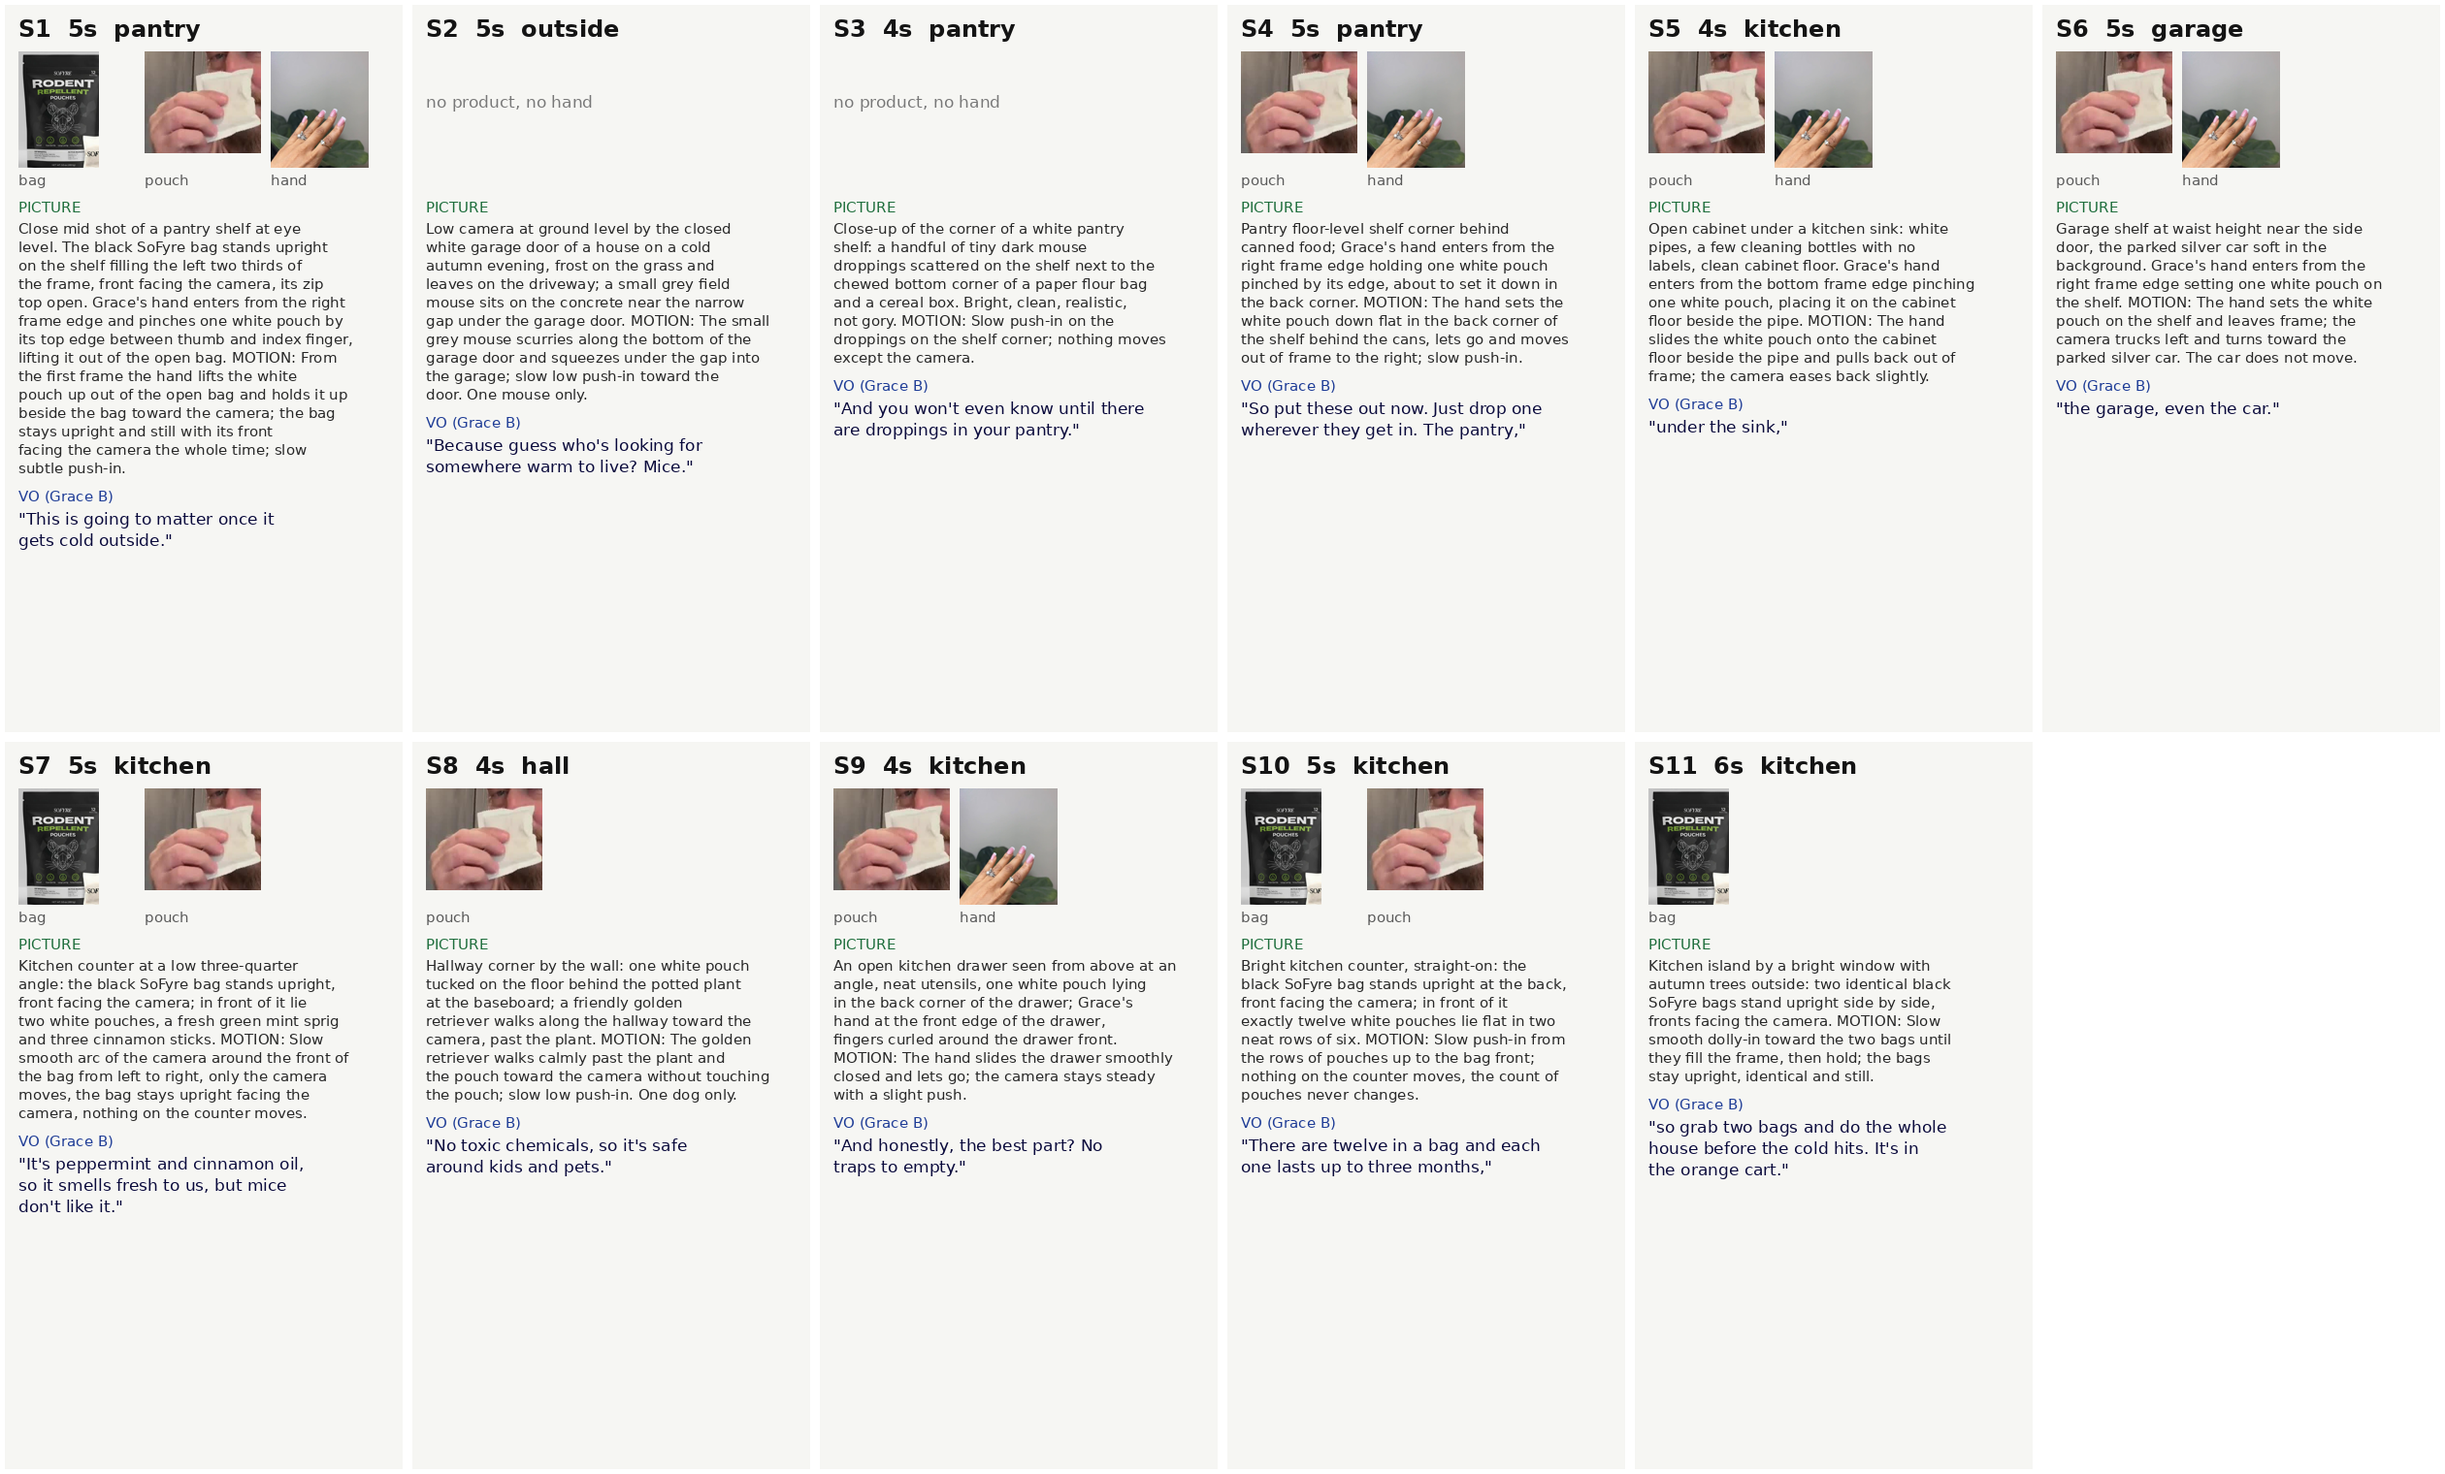
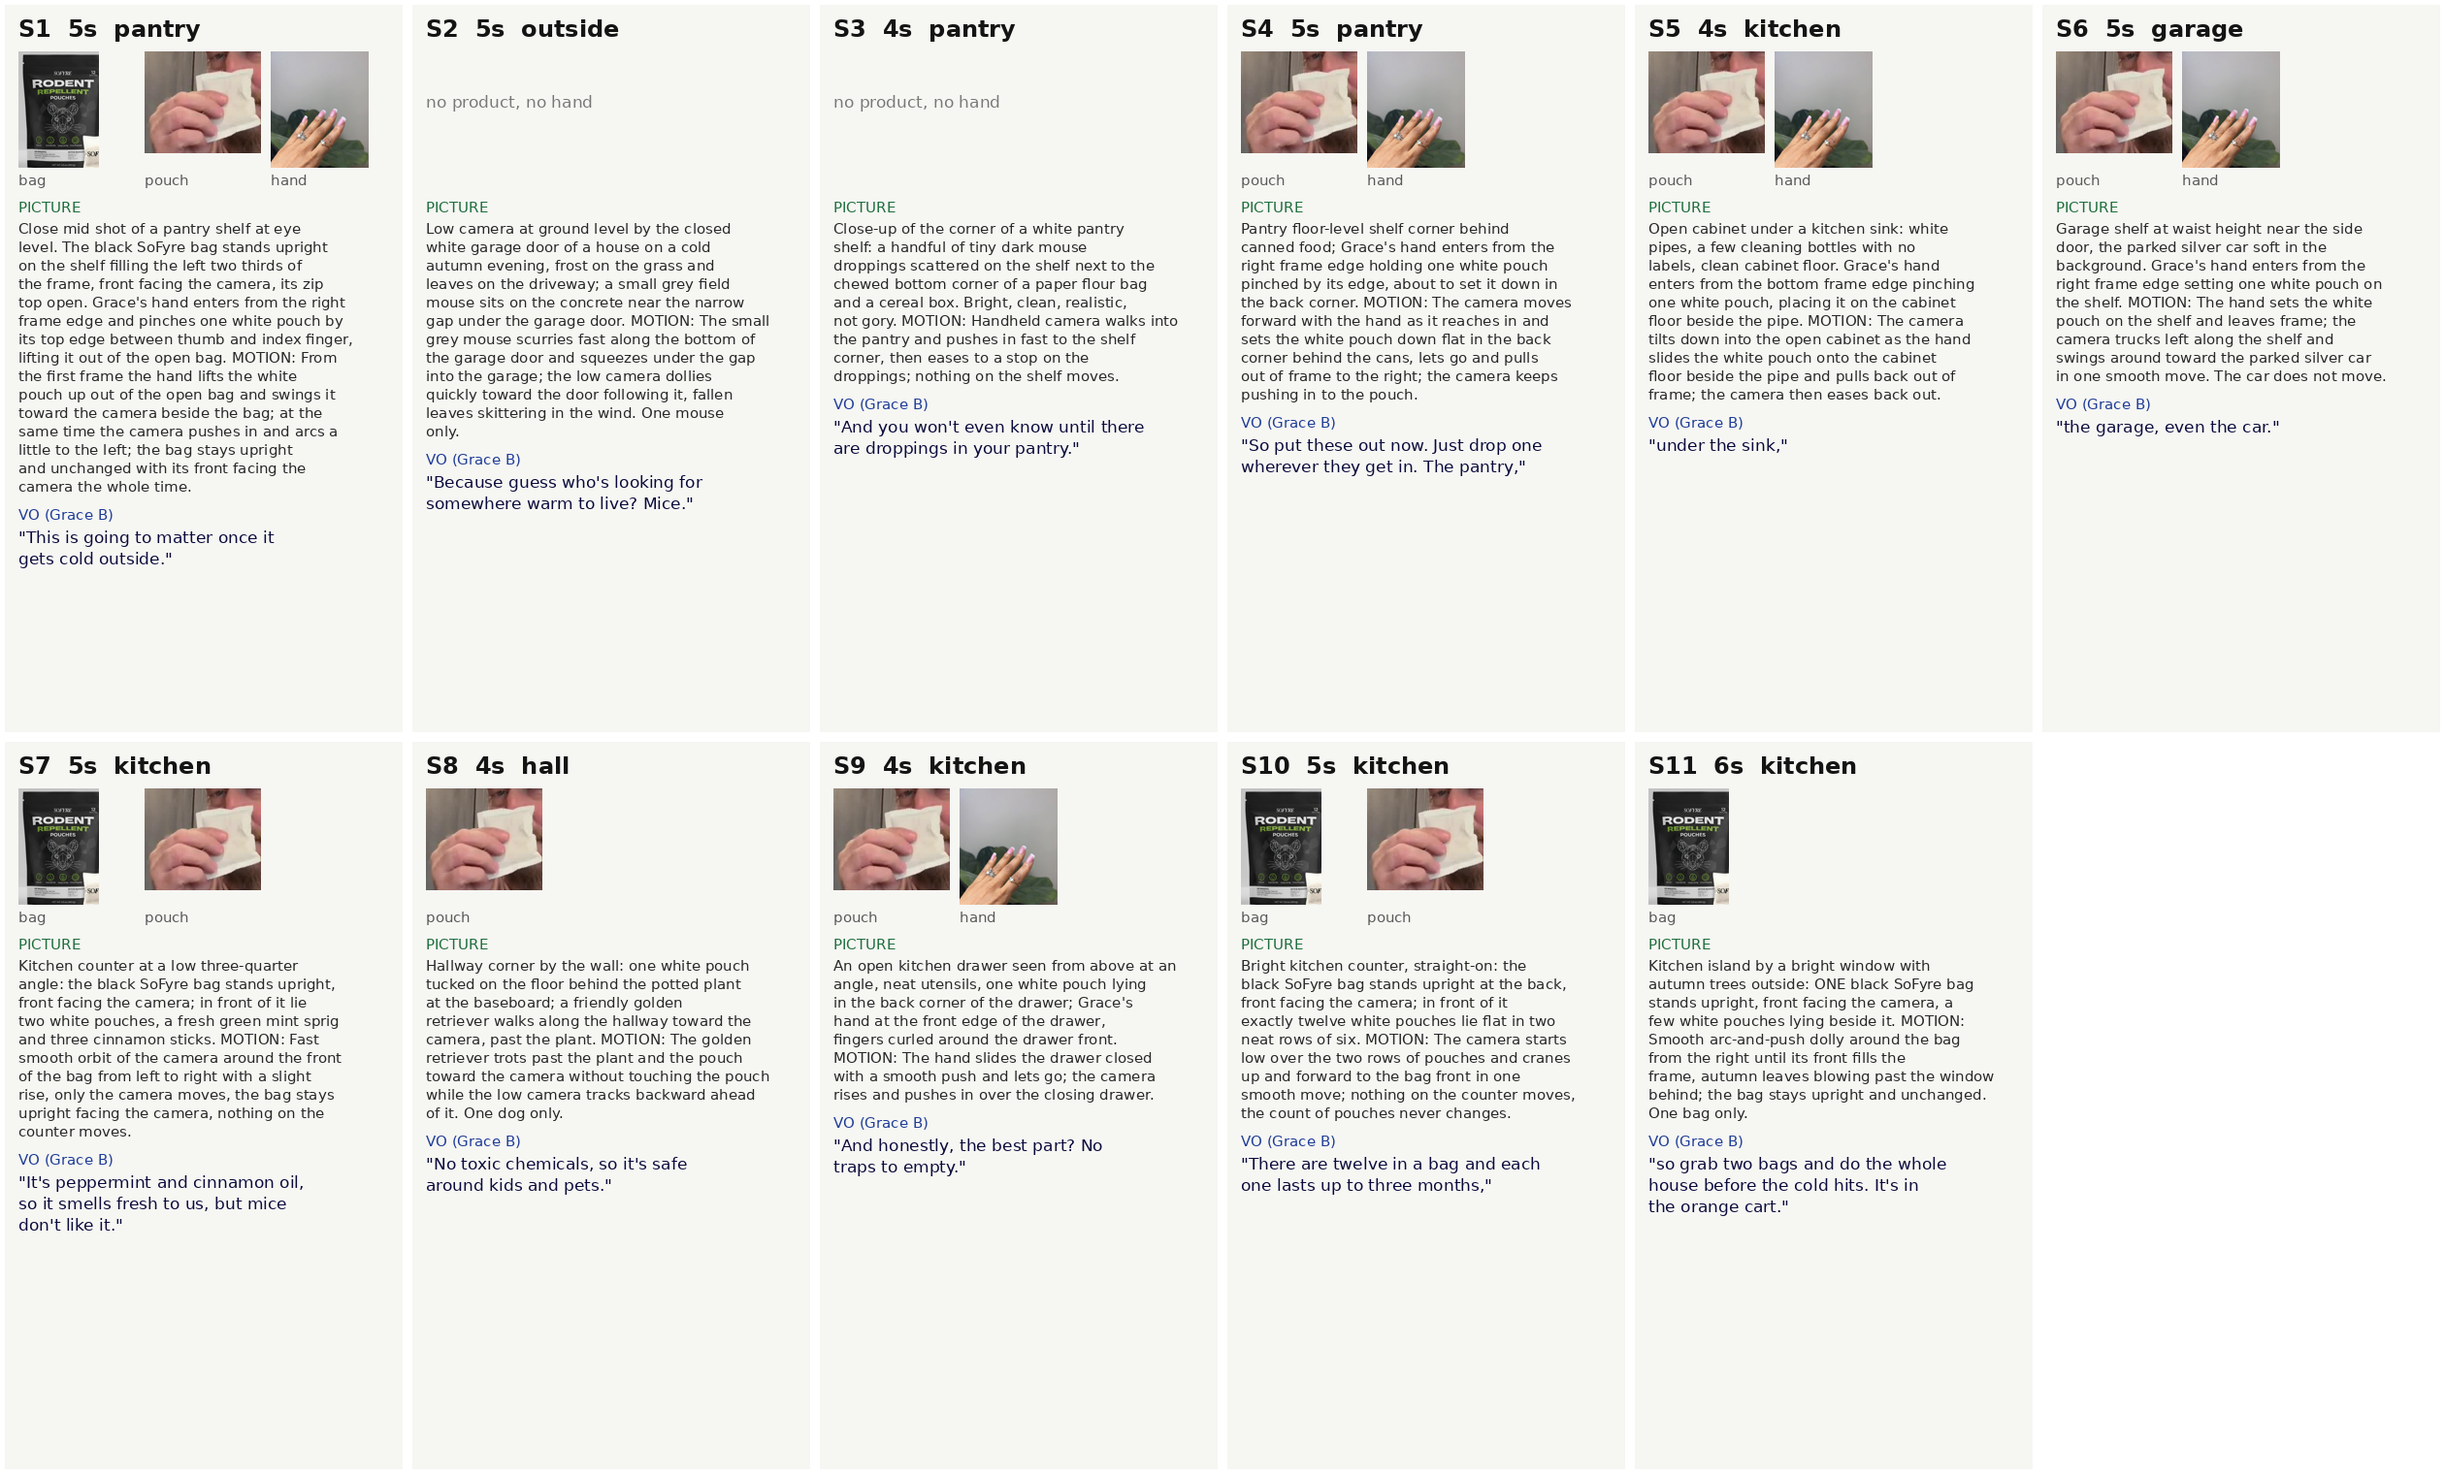
SoFyre plan rev 2: one bag in S11, more motion in every shot
Claude-Session: https://claude.ai/code/session_011CM4wdF13QjfzjxzHh4nYD

diff --git a/ugc/sofyre-rodent-pouches/PLAN.md b/ugc/sofyre-rodent-pouches/PLAN.md
@@ -1,4 +1,4 @@
-# SoFyre rodent repellent pouches (Grace): plan for approval (2026-10-13)
+# SoFyre rodent repellent pouches (Grace): plan for approval (rev 2, 2026-10-14)
 
 **Format:** hands only + hand-free moving shots, no face, Grace B voiceover, no on-screen text, ~37s, 11 shots. Your two examples are talking-head videos; I kept their beats (cold weather opener, pouches placed around the house, smell, kids and pets, count) in the hands + voiceover style this project uses.
 **Product (real):** black stand-up bag, white RODENT, lime-green REPELLENT, white line-art mouse, "12 POUCHES" (from sofyre.com). Pouch: plain white sachet with zig-zag edges and no print (from the real bag in your first example). Hand: Grace's (pink nails, white French tips, heart ring and crown ring).
@@ -17,7 +17,7 @@
 | S8 | No toxic chemicals, so it's safe around kids and pets. | A golden retriever walks down a bright hallway past a pouch tucked behind a plant. | no | 4s |
 | S9 | And honestly, the best part? No traps to empty. | Hand slides a kitchen drawer closed with a pouch inside at the back. | yes | 4s |
 | S10 | There are twelve in a bag and each one lasts up to three months, | The bag with exactly twelve pouches in two rows of six in front (count checked on the still). | no | 5s |
-| S11 | so grab two bags and do the whole house before the cold hits. It's in the orange cart. | Two bags side by side by a bright window with autumn trees; slow dolly-in, hold. | no | 6s |
+| S11 | so grab two bags and do the whole house before the cold hits. It's in the orange cart. | ONE bag on the island by a bright window, leaves blowing outside; arc-and-push dolly until the bag fills the frame. | no | 6s |
 
 ## Hook options (library, word for word)
 - **A (picked) H130:** "This is going to matter once it gets cold outside." Modeled on @wrldoflyrics_ (3.1M views, 10K saves) and @_millie1k (1.5M), which both open on the cold.
@@ -31,6 +31,8 @@
 - Claims stay on the listing: peppermint + cinnamon, kids and pets safe, homes/cars/storage, 12 pouches, "up to three months" (brand site says 30 to 90 days). Not used: "kills", "no more mice", "48 hours", "65 square feet" and "spiders and ants" (those last two are a different brand's claims). SoFyre's Trustpilot is 3.8 stars with mixed results, so no promise beyond "mice don't like it".
 - Urgency is real: it's mid October and the cold is coming.
 
+**Rev 2 (Ralph 2026-10-14, "no need to show 2 products... Lots of motion"):** S11 shows one bag (the voiceover still says "grab two bags"). Every shot now has a bigger camera move on top of the action: walk-ins, orbits, crane-ups and tracking (the dog), plus the hand moves. Cost unchanged.
+
 ## Order of work (each step checked before the next)
 1. S1 still (bag + hand + pouch) alone, then the other 10 stills on one sheet for you.
 2. S1 test clip with frame-by-frame QC (the bag print never changes, no shimmer, whole wrist, the hand comes in from the edge).
@@ -42,6 +44,6 @@ Time: about 1 hour of work after your OK, plus your still review.
 |---|---|
 | 11 stills, Nano Banana Pro on Kie ($0.09 each) | $0.99 |
 | 11 clips, Seedance 2.0 Mini on Kie (52s at $0.041/s) | $2.13 |
-| **Kie total** | **$3.12** (balance now $7.75) |
+| **Kie total** | **$3.12** (balance now $4.85) |
 | ElevenLabs voiceover, Grace B | ~630 characters |
 Any redo gets its own price and your OK first.
